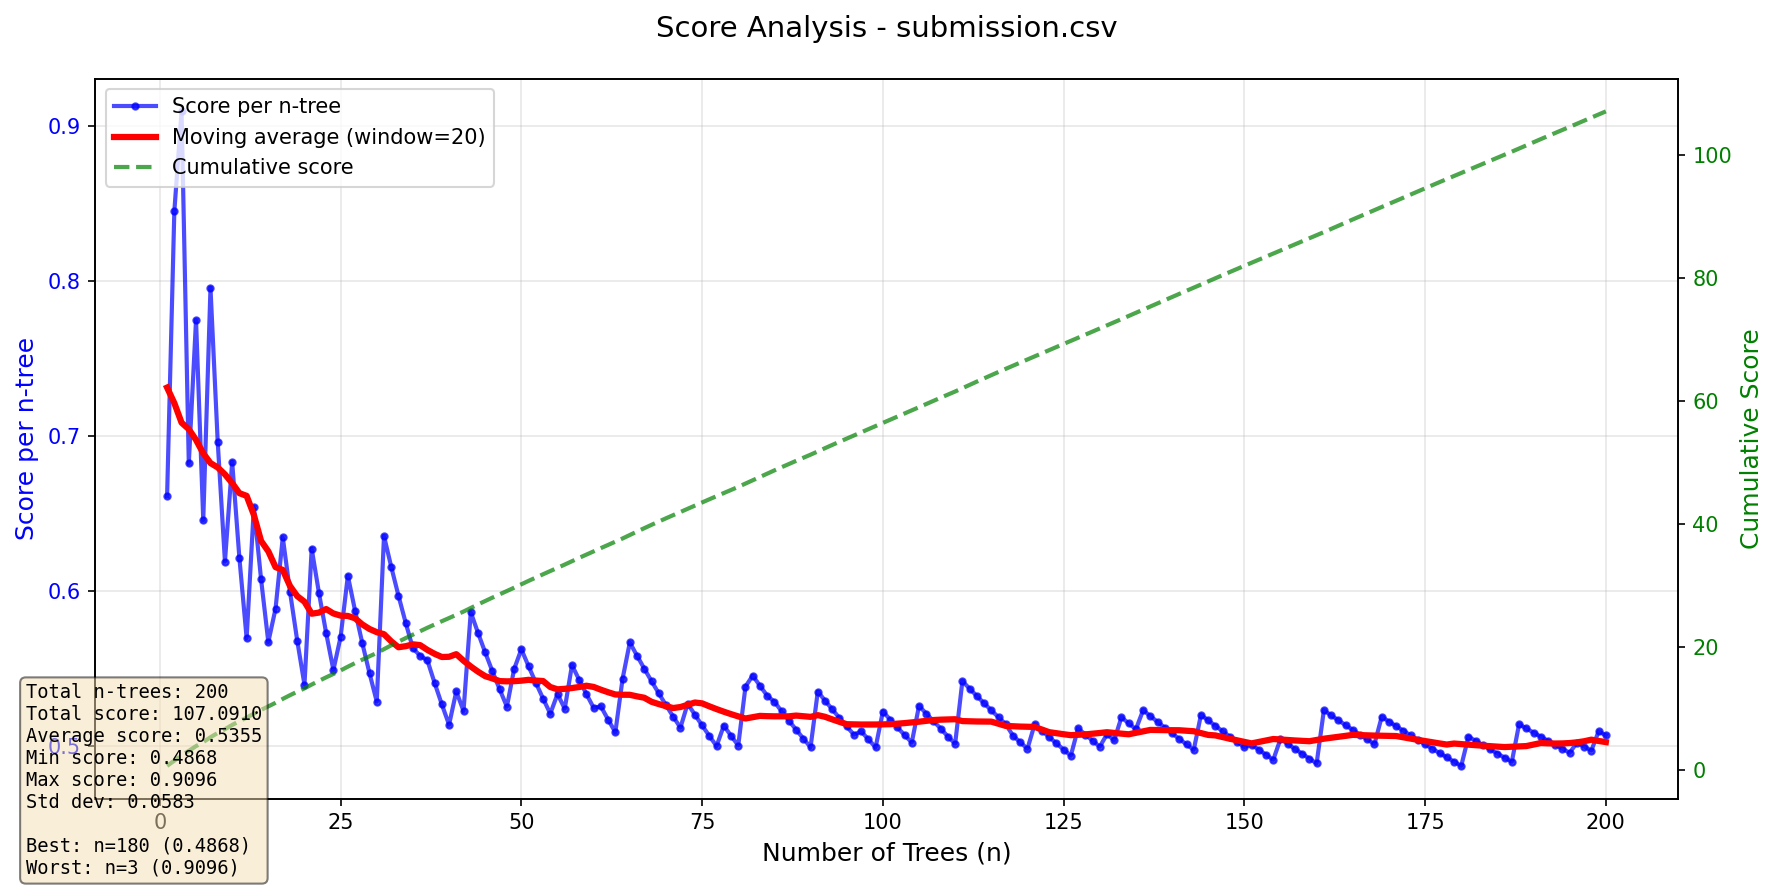
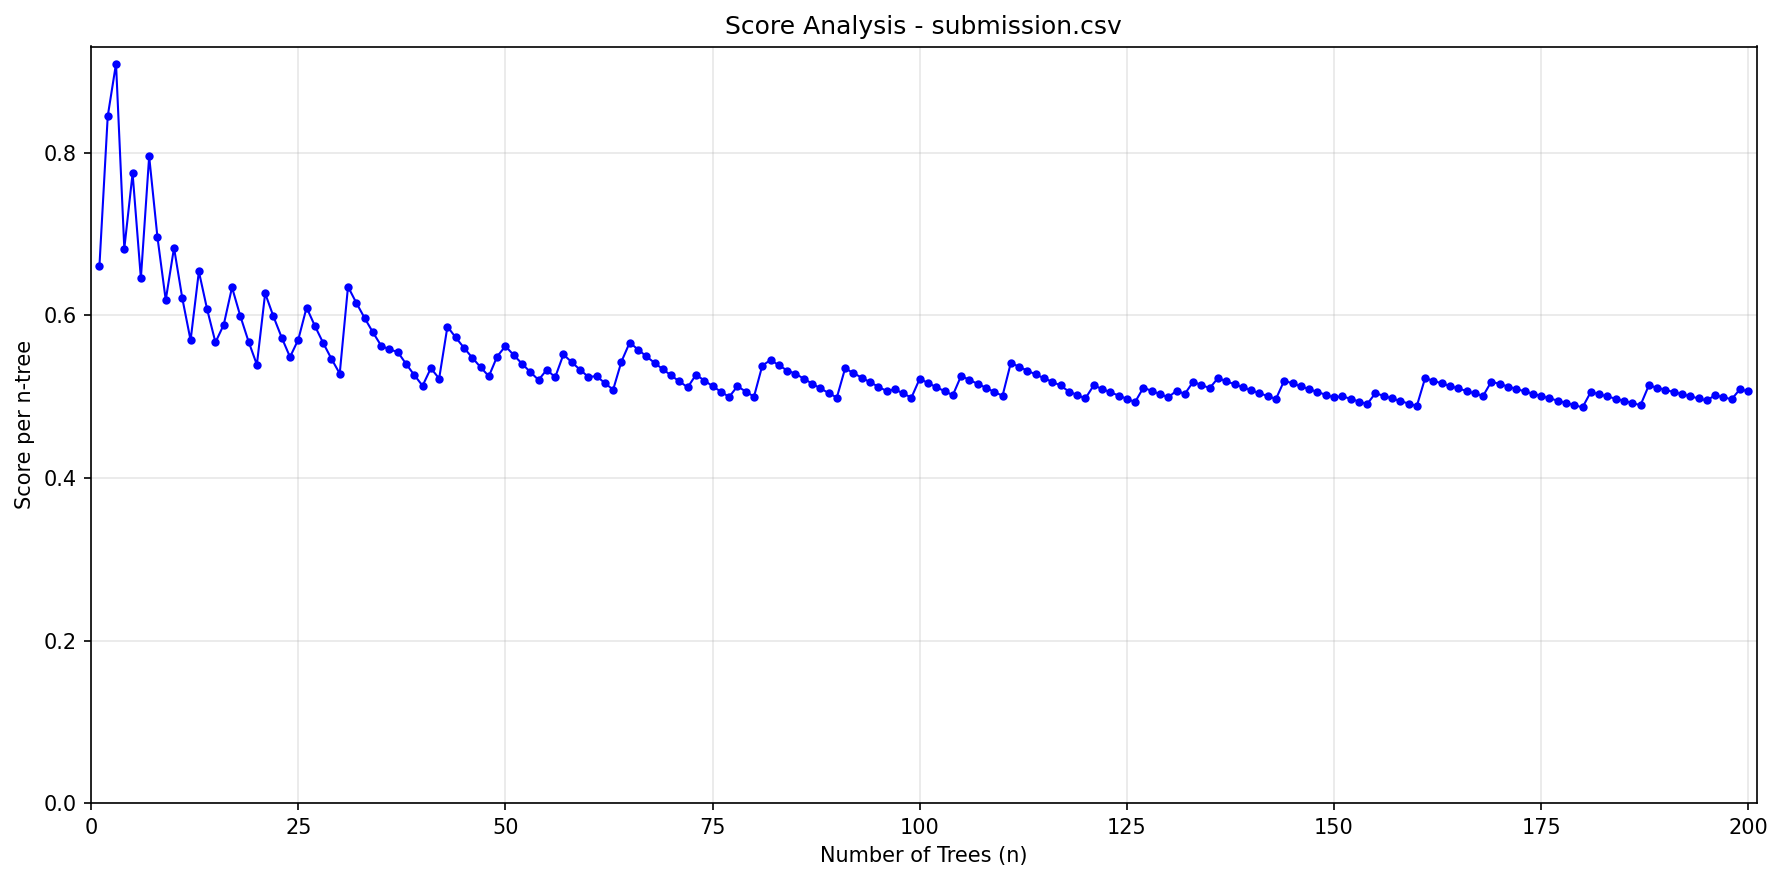
chore: simplify score analysis

diff --git a/plotter.py b/plotter.py
@@ -1,4 +1,3 @@
-import logging
 from concurrent.futures import ProcessPoolExecutor, as_completed
 from decimal import Decimal
 from pathlib import Path
@@ -15,8 +14,6 @@ from tqdm import tqdm
 from christmas_tree import ChristmasTree, NTree, from_scale
 from metric import BaseScorer
 from solution import Solution
-
-logger = logging.getLogger(__name__)
 
 
 def _plot_single_n_tree_helper(args):
@@ -109,135 +106,39 @@ class Plotter:
         # Compute scores
         n_trees = []
         scores = []
-
-        logger.info("Computing scores for each n-tree configuration...")
-
         for n_tree_obj in solution.n_trees:
             n_trees.append(n_tree_obj.tree_count)
             try:
                 score = BaseScorer.score_n_tree(n_tree_obj)
                 scores.append(float(score))
             except Exception as e:
-                logger.warning(
-                    f"Error scoring n-tree {n_tree_obj.tree_count}: {e}"
-                )
                 scores.append(np.nan)
 
         # Create the plot
         fig, ax = plt.subplots(figsize=(12, 6))
-
-        # Plot scores
         ax.plot(
             n_trees,
             scores,
             "b-",
-            linewidth=2,
+            linewidth=1,
             marker="o",
             markersize=3,
-            alpha=0.7,
             label="Score per n-tree",
         )
 
-        # Add moving average for smoothing
-        if len(scores) > 10:
-            window = min(20, len(scores) // 10 + 1)
-            moving_avg = (
-                pd.Series(scores)
-                .rolling(window=window, center=True, min_periods=1)
-                .mean()
-            )
-            ax.plot(
-                n_trees,
-                moving_avg,
-                "r-",
-                linewidth=3,
-                label=f"Moving average (window={window})",
-            )
-
-        # Add cumulative score on secondary axis
-        ax2 = ax.twinx()
-        cumulative_scores = np.nancumsum(scores)
-        ax2.plot(
-            n_trees,
-            cumulative_scores,
-            "g--",
-            linewidth=2,
-            alpha=0.7,
-            label="Cumulative score",
-        )
-
-        # Configure axes
-        ax.set_xlabel("Number of Trees (n)", fontsize=12)
-        ax.set_ylabel("Score per n-tree", fontsize=12, color="blue")
-        ax2.set_ylabel("Cumulative Score", fontsize=12, color="green")
-
-        ax.tick_params(axis="y", labelcolor="blue")
-        ax2.tick_params(axis="y", labelcolor="green")
-
-        # Add grid and title
+        # Configure
+        ax.set_xlabel("Number of Trees (n)")
+        ax.set_xlim(left=0, right=201)
+        ax.set_ylabel("Score per n-tree")
+        ax.set_ylim(bottom=0)
         ax.grid(True, alpha=0.3)
-        ax.set_title(f"Score Analysis - {submission_file}", fontsize=14, pad=20)
-
-        # Add statistics text box
-        valid_scores = [s for s in scores if not np.isnan(s)]
-        if valid_scores:
-            stats_text = [
-                f"Total n-trees: {len(valid_scores)}",
-                f"Total score: {sum(valid_scores):.4f}",
-                f"Average score: {np.mean(valid_scores):.4f}",
-                f"Min score: {np.min(valid_scores):.4f}",
-                f"Max score: {np.max(valid_scores):.4f}",
-                f"Std dev: {np.std(valid_scores):.4f}",
-            ]
-
-            # Find best and worst scores
-            min_idx = np.nanargmin(scores)
-            max_idx = np.nanargmax(scores)
-            stats_text.append(
-                f"\nBest: n={n_trees[min_idx]} ({scores[min_idx]:.4f})"
-            )
-            stats_text.append(
-                f"Worst: n={n_trees[max_idx]} ({scores[max_idx]:.4f})"
-            )
-
-            plt.figtext(
-                0.02,
-                0.02,
-                "\n".join(stats_text),
-                fontfamily="monospace",
-                fontsize=9,
-                bbox=dict(boxstyle="round", facecolor="wheat", alpha=0.5),
-            )
-
-        # Add legend
-        lines1, labels1 = ax.get_legend_handles_labels()
-        lines2, labels2 = ax2.get_legend_handles_labels()
-        ax.legend(lines1 + lines2, labels1 + labels2, loc="upper left")
-
+        ax.set_title(f"Score Analysis - {submission_file}")
         plt.tight_layout()
 
         # Save the plot
         output_path = self.output_dir / "score_analysis.png"
         plt.savefig(output_path, dpi=150, bbox_inches="tight")
         plt.close(fig)
-
-        logger.info(f"Saved score analysis plot to {output_path}")
-
-        # Print summary to console
-        logger.info("\n" + "=" * 60)
-        logger.info("SCORE ANALYSIS SUMMARY")
-        logger.info("=" * 60)
-        if valid_scores:
-            logger.info(f"Analyzed {len(valid_scores)} n-tree configurations")
-            logger.info(f"Total score: {sum(valid_scores):.6f}")
-            logger.info(f"Average score: {np.mean(valid_scores):.6f}")
-            logger.info(
-                f"Best score: n={n_trees[min_idx]}, score={scores[min_idx]:.6f}"
-            )
-            logger.info(
-                f"Worst score: n={n_trees[max_idx]}, score={scores[max_idx]:.6f}"
-            )
-        logger.info("=" * 60)
 
     def _plot_parallel(self, n_trees: list[NTree]) -> None:
         """Parallel plotting implementation."""
